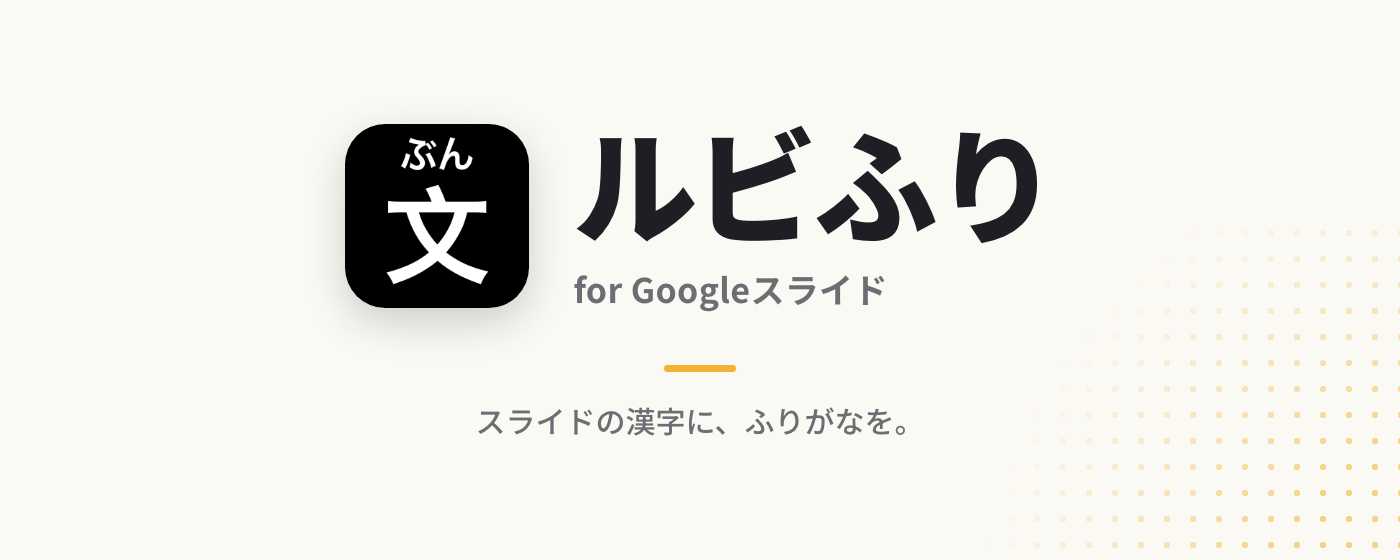
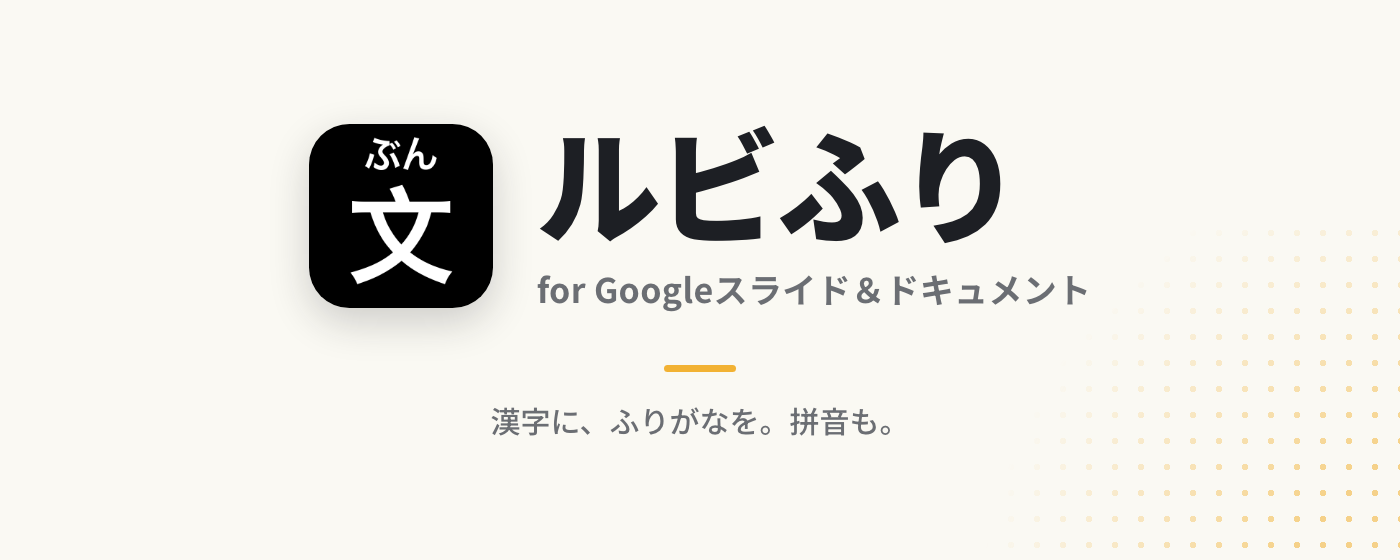
Promo tiles: update text for Slides & Docs and pinyin
Same design; sub line is now 'for Googleスライド＆ドキュメント' and the copy is
'漢字に、ふりがなを。拼音も。'.

Changed region(s): [[0.215, 0.2125, 0.7679, 0.5464], [0.3379, 0.7286, 0.645, 0.7893]]

diff --git a/design/banner/banner.html b/design/banner/banner.html
@@ -65,11 +65,11 @@
       <img class="icon" src="../icon-master-512.png" alt="" />
       <div>
         <div class="wordmark">ルビふり</div>
-        <div class="sub">for Googleスライド</div>
+        <div class="sub">for Googleスライド＆ドキュメント</div>
       </div>
     </div>
     <div class="bar"></div>
-    <div class="copy">スライドの漢字に、ふりがなを。</div>
+    <div class="copy">漢字に、ふりがなを。拼音も。</div>
   </div>
 
   <div class="tile" id="marquee">
@@ -78,11 +78,11 @@
       <img class="icon" src="../icon-master-512.png" alt="" />
       <div>
         <div class="wordmark">ルビふり</div>
-        <div class="sub">for Googleスライド</div>
+        <div class="sub">for Googleスライド＆ドキュメント</div>
       </div>
     </div>
     <div class="bar"></div>
-    <div class="copy">スライドの漢字に、ふりがなを。</div>
+    <div class="copy">漢字に、ふりがなを。拼音も。</div>
   </div>
 </body>
 </html>
